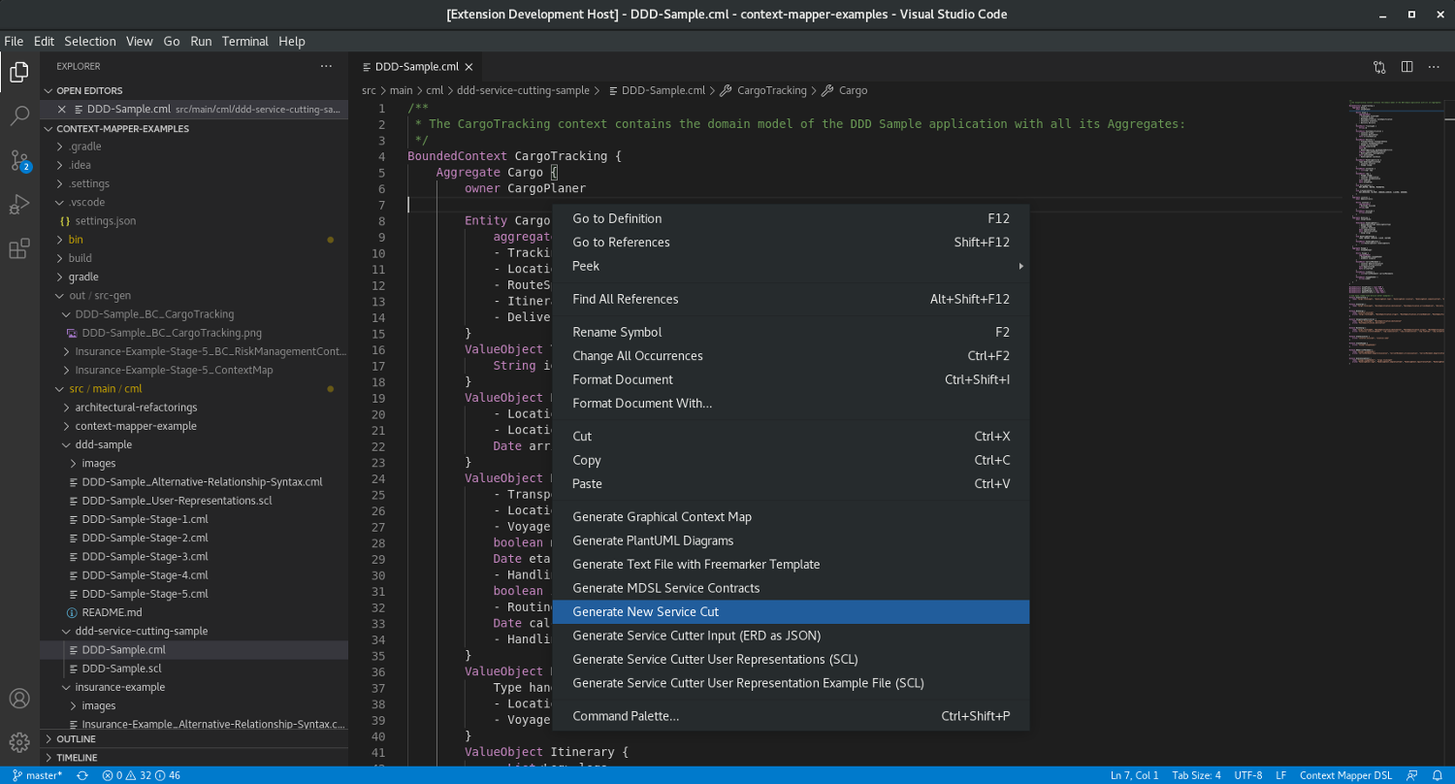
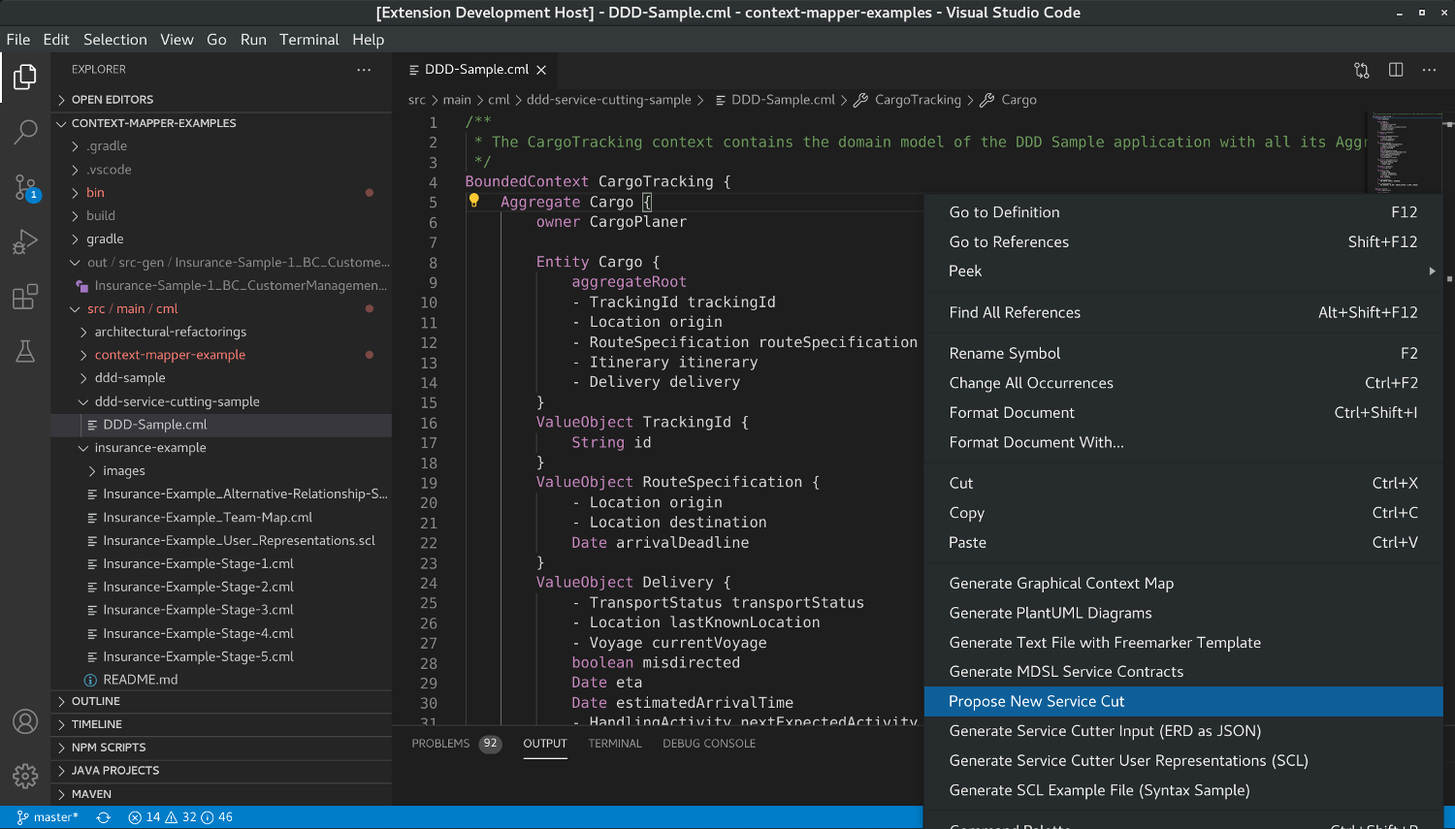
Updated Service Cutter tutorial

diff --git a/_cmls/systematic-service-decomposition-tutorial-2.html b/_cmls/systematic-service-decomposition-tutorial-2.html
@@ -1,19 +1,31 @@
 <div class="highlight"><pre><span></span><span class="k">UseCase</span> ViewTracking {
-  <span class="k">reads</span> <span class="s">&quot;Cargo.trackingId&quot;</span>, <span class="s">&quot;HandlingEvent.type&quot;</span>, <span class="s">&quot;HandlingEvent.location&quot;</span>, <span class="s">&quot;HandlingEvent.completionTime&quot;</span>, <span class="s">&quot;Delivery.transportStatus&quot;</span>, <span class="s">&quot;Delivery.estimatedArrivalTime&quot;</span>, <span class="s">&quot;Delivery.misdirected&quot;</span>, <span class="s">&quot;Voyage.voyageNumber&quot;</span>, <span class="s">&quot;RouteSpecification.destination&quot;</span>
+  <span class="k">interactions</span>
+    <span class="k">read</span> <span class="s">&quot;Cargo&quot;</span> <span class="k">with</span> <span class="k">its</span> <span class="s">&quot;trackindId&quot;</span>,
+    <span class="k">read</span> <span class="s">&quot;HandlingEvent&quot;</span> <span class="k">with</span> <span class="k">its</span> <span class="s">&quot;handlingEventType&quot;</span>, <span class="s">&quot;location&quot;</span>, <span class="s">&quot;completionTime&quot;</span>,
+    <span class="k">read</span> <span class="s">&quot;Delivery&quot;</span> <span class="k">with</span> <span class="k">its</span> <span class="s">&quot;transportStatus&quot;</span>, <span class="s">&quot;estimatedArrivalTime&quot;</span>, <span class="s">&quot;misdirected&quot;</span>, 
+    <span class="k">read</span> <span class="s">&quot;Voyage&quot;</span> <span class="k">with</span> <span class="k">its</span> <span class="s">&quot;voyageNumber&quot;</span>,
+    <span class="k">read</span> <span class="s">&quot;RouteSpecification&quot;</span> <span class="k">with</span> <span class="k">its</span> <span class="s">&quot;destination&quot;</span>
 }
 
 <span class="k">UseCase</span> ViewCargos {
-  <span class="k">reads</span> <span class="s">&quot;Cargo.trackingId&quot;</span>, <span class="s">&quot;RouteSpecification.destination&quot;</span>, <span class="s">&quot;RouteSpecification.arrivalDeadline&quot;</span>, <span class="s">&quot;Delivery.routingStatus&quot;</span>, <span class="s">&quot;Itinerary.itineraryNumber&quot;</span>
+  <span class="k">interactions</span>
+    <span class="k">read</span> <span class="s">&quot;Cargo&quot;</span> <span class="k">with</span> <span class="k">its</span> <span class="s">&quot;trackingId&quot;</span>,
+    <span class="k">read</span> <span class="s">&quot;RouteSpecification&quot;</span> <span class="k">with</span> <span class="k">its</span> <span class="s">&quot;destination&quot;</span>, <span class="s">&quot;arrivalDeadline&quot;</span>,
+    <span class="k">read</span> <span class="s">&quot;Delivery&quot;</span> <span class="k">with</span> <span class="k">its</span> <span class="s">&quot;routingStatus&quot;</span>
 }
 
 <span class="k">UseCase</span> BookCargo {
-  <span class="k">reads</span> <span class="s">&quot;Location.unLocode&quot;</span>
-  <span class="k">writes</span> <span class="s">&quot;Cargo.trackingId&quot;</span>, <span class="s">&quot;RouteSpecification.origin&quot;</span>, <span class="s">&quot;RouteSpecification.arrivalDeadline&quot;</span>, <span class="s">&quot;RouteSpecification.destination&quot;</span>
+  <span class="k">interactions</span>
+    <span class="k">read</span> <span class="s">&quot;Location&quot;</span> <span class="k">with</span> <span class="k">its</span> <span class="s">&quot;unLocode&quot;</span>,
+    <span class="k">update</span> <span class="s">&quot;Cargo&quot;</span> <span class="k">with</span> <span class="k">its</span> <span class="s">&quot;trackingId&quot;</span>,
+    <span class="k">update</span> <span class="s">&quot;RouteSpecification&quot;</span> <span class="k">with</span> <span class="k">its</span> <span class="s">&quot;origin&quot;</span>, <span class="s">&quot;arrivalDeadline&quot;</span>, <span class="s">&quot;destination&quot;</span>
 }
 
 <span class="k">UseCase</span> ChangeCargoDestination {
-  <span class="k">reads</span> <span class="s">&quot;Cargo.trackingId&quot;</span>, <span class="s">&quot;RouteSpecification.destination&quot;</span>
-  <span class="k">writes</span> <span class="s">&quot;RouteSpecification.destination&quot;</span>
+  <span class="k">interactions</span>
+    <span class="k">read</span> <span class="s">&quot;Cargo&quot;</span> <span class="k">with</span> <span class="k">its</span> <span class="s">&quot;trackingId&quot;</span>,
+    <span class="k">read</span> <span class="s">&quot;RouteSpecification&quot;</span> <span class="k">with</span> <span class="k">its</span> <span class="s">&quot;destination&quot;</span>,
+    <span class="k">update</span> <span class="s">&quot;RouteSpecification&quot;</span> <span class="k">with</span> <span class="k">its</span> <span class="s">&quot;destination&quot;</span>
 }
 
 <span class="c">/* we shortened this listing to save space (find all use cases in the original CML file) */</span>

diff --git a/_docs/tutorials/systematic-service-decomposition.md b/_docs/tutorials/systematic-service-decomposition.md
@@ -70,32 +70,44 @@ The CML code above just gives you an impression how the model looks like but is 
 <a target="_blank" href="/img/systematic-service-decomposition-tutorial-ddd-sample-plantuml.png">![DDD Sample Application Domain Model (PlantUML generated with Context Mapper)](/img/systematic-service-decomposition-tutorial-ddd-sample-plantuml.png)</a>
 
 ## Use Case Modeling
-With a Bounded Context definition as the one above you are already able to generate new service decompositions or Service Cutter files. However, we highly recommend the model your use cases as well, since they have a big impact on the ideal service decomposition.
+With a Bounded Context definition as the one above you are already able to generate new service decompositions or Service Cutter files. However, we highly recommend to model your use cases as well, since they have a big impact on the ideal service decomposition.
 
 On the [User Requirements](/docs/user-requirements/) page of our language reference you can find out how use cases or user stories are modeled in CML. For this tutorial based on the DDD sample application we modeled the use cases provided by the [Service Cutter sample files](https://github.com/ServiceCutter/ServiceCutter/tree/master/Samples):
 
 <div class="highlight"><pre><span></span><span class="k">UseCase</span> ViewTracking {
-  <span class="k">reads</span> <span class="s">&quot;Cargo.trackingId&quot;</span>, <span class="s">&quot;HandlingEvent.type&quot;</span>, <span class="s">&quot;HandlingEvent.location&quot;</span>, <span class="s">&quot;HandlingEvent.completionTime&quot;</span>, <span class="s">&quot;Delivery.transportStatus&quot;</span>, <span class="s">&quot;Delivery.estimatedArrivalTime&quot;</span>, <span class="s">&quot;Delivery.misdirected&quot;</span>, <span class="s">&quot;Voyage.voyageNumber&quot;</span>, <span class="s">&quot;RouteSpecification.destination&quot;</span>
+  <span class="k">interactions</span>
+    <span class="k">read</span> <span class="s">&quot;Cargo&quot;</span> <span class="k">with</span> <span class="k">its</span> <span class="s">&quot;trackindId&quot;</span>,
+    <span class="k">read</span> <span class="s">&quot;HandlingEvent&quot;</span> <span class="k">with</span> <span class="k">its</span> <span class="s">&quot;handlingEventType&quot;</span>, <span class="s">&quot;location&quot;</span>, <span class="s">&quot;completionTime&quot;</span>,
+    <span class="k">read</span> <span class="s">&quot;Delivery&quot;</span> <span class="k">with</span> <span class="k">its</span> <span class="s">&quot;transportStatus&quot;</span>, <span class="s">&quot;estimatedArrivalTime&quot;</span>, <span class="s">&quot;misdirected&quot;</span>, 
+    <span class="k">read</span> <span class="s">&quot;Voyage&quot;</span> <span class="k">with</span> <span class="k">its</span> <span class="s">&quot;voyageNumber&quot;</span>,
+    <span class="k">read</span> <span class="s">&quot;RouteSpecification&quot;</span> <span class="k">with</span> <span class="k">its</span> <span class="s">&quot;destination&quot;</span>
 }
 
 <span class="k">UseCase</span> ViewCargos {
-  <span class="k">reads</span> <span class="s">&quot;Cargo.trackingId&quot;</span>, <span class="s">&quot;RouteSpecification.destination&quot;</span>, <span class="s">&quot;RouteSpecification.arrivalDeadline&quot;</span>, <span class="s">&quot;Delivery.routingStatus&quot;</span>, <span class="s">&quot;Itinerary.itineraryNumber&quot;</span>
+  <span class="k">interactions</span>
+    <span class="k">read</span> <span class="s">&quot;Cargo&quot;</span> <span class="k">with</span> <span class="k">its</span> <span class="s">&quot;trackingId&quot;</span>,
+    <span class="k">read</span> <span class="s">&quot;RouteSpecification&quot;</span> <span class="k">with</span> <span class="k">its</span> <span class="s">&quot;destination&quot;</span>, <span class="s">&quot;arrivalDeadline&quot;</span>,
+    <span class="k">read</span> <span class="s">&quot;Delivery&quot;</span> <span class="k">with</span> <span class="k">its</span> <span class="s">&quot;routingStatus&quot;</span>
 }
 
 <span class="k">UseCase</span> BookCargo {
-  <span class="k">reads</span> <span class="s">&quot;Location.unLocode&quot;</span>
-  <span class="k">writes</span> <span class="s">&quot;Cargo.trackingId&quot;</span>, <span class="s">&quot;RouteSpecification.origin&quot;</span>, <span class="s">&quot;RouteSpecification.arrivalDeadline&quot;</span>, <span class="s">&quot;RouteSpecification.destination&quot;</span>
+  <span class="k">interactions</span>
+    <span class="k">read</span> <span class="s">&quot;Location&quot;</span> <span class="k">with</span> <span class="k">its</span> <span class="s">&quot;unLocode&quot;</span>,
+    <span class="k">update</span> <span class="s">&quot;Cargo&quot;</span> <span class="k">with</span> <span class="k">its</span> <span class="s">&quot;trackingId&quot;</span>,
+    <span class="k">update</span> <span class="s">&quot;RouteSpecification&quot;</span> <span class="k">with</span> <span class="k">its</span> <span class="s">&quot;origin&quot;</span>, <span class="s">&quot;arrivalDeadline&quot;</span>, <span class="s">&quot;destination&quot;</span>
 }
 
 <span class="k">UseCase</span> ChangeCargoDestination {
-  <span class="k">reads</span> <span class="s">&quot;Cargo.trackingId&quot;</span>, <span class="s">&quot;RouteSpecification.destination&quot;</span>
-  <span class="k">writes</span> <span class="s">&quot;RouteSpecification.destination&quot;</span>
+  <span class="k">interactions</span>
+    <span class="k">read</span> <span class="s">&quot;Cargo&quot;</span> <span class="k">with</span> <span class="k">its</span> <span class="s">&quot;trackingId&quot;</span>,
+    <span class="k">read</span> <span class="s">&quot;RouteSpecification&quot;</span> <span class="k">with</span> <span class="k">its</span> <span class="s">&quot;destination&quot;</span>,
+    <span class="k">update</span> <span class="s">&quot;RouteSpecification&quot;</span> <span class="k">with</span> <span class="k">its</span> <span class="s">&quot;destination&quot;</span>
 }
 
 <span class="c">/* we shortened this listing to save space (find all use cases in the original CML file) */</span>
 </pre></div>
 
-Note that we only modeled the _read_ and _written_ nanoentities here. You can model the user requirements in much more detail in CML, but these two attributes are necessary for the Service Cutter generators and tools.
+Note that we only modeled the Entities with its _read_ and _written_ attributes (nanoentities) here. The CML syntax allows you to add [more details to use cases and/or user stories](/docs/user-requirements/), but the information above are absolutely necessary for Context Mapper to use the cases/stories as user representations in Service Cutter.
 
 The CML use cases or user stories will be mapped to the Service Cutter's [_Use Case_ definition](https://github.com/ServiceCutter/ServiceCutter/wiki/Use-Cases).
 
@@ -136,8 +148,8 @@ This might not make sense for the DDD sample application, as the domain model is
 
 The CML team assignments will be mapped to the Service Cutter's [_Shared Owner Group_ definition](https://github.com/ServiceCutter/ServiceCutter/wiki/Shared-owner-groups).
 
-## Additional User Representations
-Besides _Use Cases_ and _Shared Owner Groups_ Service Cutter uses additional user representations that may influence the coupling between your model elements. This is the list of [all supported user representations](https://github.com/ServiceCutter/ServiceCutter/wiki/User-Representations):
+## Other User Representations
+In our example we just used _Use Cases_ and _Shared Owner Groups_. However, Service Cutter supports many other [user representations](https://github.com/ServiceCutter/ServiceCutter/wiki/User-Representations) that can help to improve the suggested service decompositions:
 
  * Entity Relationship Model (ERM)
  * Use Cases
@@ -149,20 +161,27 @@ Besides _Use Cases_ and _Shared Owner Groups_ Service Cutter uses additional use
  * Security Access Groups
  * Compatibilities
 
-Most of the user representations we can now derive from our CML model. The ERM is derived from the Entities and their references in CML. As already explained above, the Use Cases and Shared Owner Groups are modeled in CML as well. We further derive the Aggregates and Entities for Service Cutter from the corresponding counterparts in CML. In addition, we derive Predefined Services from already existing Bounded Contexts of your CML model. The remaining user representations have to be added manually, in case they are relevant for your application.
+**Note:** CML offers language features to cover all those user representations. That means: Context Mapper derives all Service Cutter user representations automatically for you, as long as you use the corresponding CML language feature. The following list summarizes how you can use all those language features (and links to the corresponding pages of the language reference):
+
+ * [Use Cases](https://github.com/ServiceCutter/ServiceCutter/wiki/Use-Cases): The use cases for Service Cutter are derived from the CML use cases and/or user stories (already shown above). You can find examples how to model them [here](/docs/user-requirements/). Also have a look at [Olaf Zimmermann's blogpost](https://ozimmer.ch/practices/2020/06/10/ICWEKeynoteAndDemo.html) for an enhanced example.
+   * **Note**: You have to specify your use cases with entities and their attributes, otherwise we cannot use them as user representations in Service Cutter.
+ * [Shared Owner Groups](https://github.com/ServiceCutter/ServiceCutter/wiki/Shared-owner-groups): Shared owner groups are derived automatically, if you [assign owners to your Aggregates (define which development teams own which parts of the system/code)](/docs/aggregate/#aggregate-owner) as done above.
+ * [Aggregates](https://github.com/ServiceCutter/ServiceCutter/wiki/Aggregates): [Aggregates](/docs/aggregate/) are first-class citizens in CML. Thus, the Aggregates for Service Cutter are simply derived by the CML Aggregates.
+ * [Entities](https://github.com/ServiceCutter/ServiceCutter/wiki/Entities): [Entities](/docs/tactic-ddd/) are first-class citizens in CML. Thus, the Entities for Service Cutter are simply derived by the CML Entities, Value Objects, and Domain Events (see [tactic DDD](/docs/tactic-ddd/)).
+ * [Predefined Services](https://github.com/ServiceCutter/ServiceCutter/wiki/Predefined-services): Predefined services are derived by the [Bounded Contexts](/docs/bounded-context/) you already provide before calling the service cut generator. This means: each Bounded Context you already identified is mapped to a predefined service.
+ * [Separated Security Zones](https://github.com/ServiceCutter/ServiceCutter/wiki/Separated-security-zones): The CML language allows you to [assign each Aggregate to a _security zone_](/docs/aggregate/#security-zones). Thereby you can indicate that parts of your Bounded Contexts must be realized in _separated security zones_.
+ * [Security Access Groups](https://github.com/ServiceCutter/ServiceCutter/wiki/Security-access-groups): The CML language allows you to [assign each Aggregate to a _security access group_](/docs/aggregate/#security-access-groups). Thereby you can indicate that parts of your Bounded Contexts have different security access requirements.
+ * [Compatibilities](https://github.com/ServiceCutter/ServiceCutter/wiki/Compatibilities): All compatibilities (`contentVolatility`, `structuralVolatility`, `availabilityCriticality`, `consistencyCriticality`, `storageSimilarity`, and `securityCriticality`) can be [modeled on Aggregate level in CML](/docs/aggregate/#characteristics-classification).
 
 ## The Service Cutter Configuration DSL (SCL)
-The Service Cutter tool takes the user representations as a JSON file. In order to ease the description of these representations we created another DSL. Once you created a CML model, you can easily derive an initial SCL file from it. You find two SCL generators in Context Mapper:
 
-<a target="_blank" href="/img/systematic-service-decomposition-tutorial-scl-menu-screenshot.png">![SCL Generators in Context Mapper](/img/systematic-service-decomposition-tutorial-scl-menu-screenshot.png)</a>
+<div class="alert alert-custom">
+<strong>Note:</strong> As soon as you generate service cut suggestions you will realize that Context Mapper creates a *.scl file besides your *.cml file. Since Context Mapper v6.x.x you can basically ignore this file. It contains the user representations and updates itself each time you create a new service decomposition suggestion.
+</div>
 
-The first generator ("Generate Service Cutter User Representations (SCL)") generates an SCL file that contains the user representations which can be derived from your CML model. You can enhance this file with additional user representations. However, the representations that can be derived from CML code will always be overwritten as soon as you call the generator again or if you generate new Service Cut's in Context Mapper. 
+We originally developed the _Service Cutter Configuration DSL (SCL)_ to ease the modeling of Service Cutter's user representations, since Service Cutter requires the data in JSON and this is cumbersome to write manually. To generate service decomposition suggestions in Context Mapper it is no longer required to modify it manually. It creates and updates itself automatically.
 
-**Note:** If you update your CML model (for example you create a new Aggregate with new Entities), you can always call the SCL generator again and it will update your *.scl file.
-
-The second generator ("Generate Service Cutter User Representation Example File (SCL)") only generates an exemplary file that illustrates the SCL syntax. The generated user representations do not make sense and should not be used to generate Service Cut's! In this file you find syntactic examples for all potential user representations you can model:
-
-<a target="_blank" href="/img/systematic-service-decomposition-tutorial-scl-example-file.png">![SCL Example File](/img/systematic-service-decomposition-tutorial-scl-example-file.png)</a>
+You only have to open and/or edit the file in one case: if you want to export the JSON files and analyze your system in the original Service Cutter tool. In case you generate service cut's in Context Mapper, it does not make sense to modify the file manually, as it is always overwritten with the data we derive from the CML model.
 
 Now, having a CML and a SCL model, you have two options how you can proceed:
 
@@ -170,18 +189,36 @@ Now, having a CML and a SCL model, you have two options how you can proceed:
  * Analyze your model in [Service Cutter](https://github.com/ServiceCutter/ServiceCutter/)
 
 ## Generate Service Cut's
-You can create new CML files with new service decompositions by calling "Generate New Service Cut":
+You can create new CML files with new service decompositions by calling "Propose New Service Cut":
 
-<a target="_blank" href="/img/systematic-service-decomposition-tutorial-generate-new-service-cut.png">![Generate New Service Cut (Context Menu in VS Code)](/img/systematic-service-decomposition-tutorial-generate-new-service-cut.png)</a>
+<a target="_blank" href="/img/systematic-service-decomposition-tutorial-generate-new-service-cut.png">![Propose New Service Cut (Context Menu in VS Code)](/img/systematic-service-decomposition-tutorial-generate-new-service-cut.png)</a>
 
 Note that depending on the [graph clustering algorithm](#algorithms) (we explain how you can change the algorithm below) you may get a different result each time you call the generator.
-In this case, you can generete multiple suggestions by calling the generator multiple times; it always create a new *.cml file containing a new service decomposition for your model:
+In this case, you can generate multiple suggestions by calling the generator multiple times; it always create a new *.cml file containing a new service decomposition for your model:
 
 <a target="_blank" href="/img/systematic-service-decomposition-tutorial-multiple-generation-screenshot.png">![Generate Multiple Service Cuts](/img/systematic-service-decomposition-tutorial-multiple-generation-screenshot.png)</a>
 
-**Note:** The generator always uses the *.scl file with the same name your *.cml file has. For example: if you call the generator for a file called _mymodel.cml_, your SCL file must be called _mymodel.scl_ and it must be stored in the same directory. The SCL file generator already creates the file under the correct file name.
+As you can see above, the generator additionally creates a *.gv file each time:
 
-**Note:** If you have not already created an SCL file as described above, the service cut generator will automatically create one for you.
+<a target="_blank" href="/img/systematic-service-decomposition-tutorial-example-graphviz-file.png">![Example Graphviz DOT File (*.gv)](/img/systematic-service-decomposition-tutorial-example-graphviz-file.png)</a>
+
+You don't necessarily need this file, but it can be useful for traceability and while trying to understand how Service Cutter works. It contains the graph Service Cutter uses for the clustering as [Graphviz DOT file](https://en.wikipedia.org/wiki/DOT_%28graph_description_language%29). Thereby you can for example change the scoring in the `.servicecutter.yml` file and analyze which impact this has on the actual graph behind the scenes. Besides the graph with the weighted egdes, each line/edge contains a comment that explains the calculated weight on the basis of the used coupling criteria.
+
+If your model is not too big you can use online tools such as [http://webgraphviz.com/](http://webgraphviz.com/) or [http://graphviz.it/](http://graphviz.it/) to illustrate the graph graphically:
+
+<a target="_blank" href="/img/service-cutter-gv-file-online-screenshot.png">![Example Graphviz DOT File (*.gv)](/img/service-cutter-gv-file-online-screenshot.png)</a>
+
+However, the graph generated with our example above is already too big for those tools (they do not respond when pasting the DOT graph into their editors). In such a case you can generate a graphic locally on the command line (in case you have [Graphviz](https://graphviz.org/) installed):
+
+```bash
+dot -Tpng DDD-Sample_Markov_Clustering_Cut_4.gv -o DDD-Sample_Markov_Clustering_Cut_4.png
+```
+
+This can also take a while but you have the generated file after a some seconds.
+
+Nevertheless, as you can see in the following image, this feature is really only usefull for small examples. The graph produced by our DDD sample model is simply too big:
+
+<a target="_blank" href="/img/systematic-service-decomposition-tutorial-generated-png-graph.png">![Huge Graphviz graph for DDD Sample)](/img/systematic-service-decomposition-tutorial-generated-png-graph.png)</a>
 
 ### Criteria Scoring
 Service Cutter allows you to score the individual coupling criteria. Thereby you can define which criteria are more important than others in your specific case. In case you use Service Cutter, you can control the scores on the user interface (see screenshot below). In case you use the service cut generator in Context Mapper, you have to change the scores in the `.servicecutter.yml` file. The file is automatically generated into the root folder of your project when you call the service cut generator for the first time:
@@ -194,6 +231,12 @@ You can change the scoring in the _priorities_ part of the YAML file (see screen
 
 <a target="_blank" href="/img/systematic-service-decomposition-tutorial-eclipse-dot-file-filter.png">![Eclipse: Disable .* File Filter](/img/systematic-service-decomposition-tutorial-eclipse-dot-file-filter.png)</a>
 
+**Note:** As you can see in the following screenshot, we always dump the current configuration as a comment into the generate service suggestions:
+
+<a target="_blank" href="/img/systematic-service-decomposition-tutorial-configuration-dump.png">![Configuration dumped into generated CML models](/img/systematic-service-decomposition-tutorial-configuration-dump.png)</a>
+
+This can be very helpful regarding traceability and understandability when analyzing the generated service cut's.
+
 ### Algorithms
 You can further change the clustering algorithm in the `.servicecutter.yml` file. We currently support the following three algorithms:
 
@@ -204,6 +247,35 @@ You can further change the clustering algorithm in the `.servicecutter.yml` file
 <div class="alert alert-custom">
 <strong>Note</strong> that that LEUNG and CHINESE_WHISPERS can produce different results for each execution due to their randomized and non-deterministic behavior. That means that you get CML models each time you generate a new service cut suggestion.
 </div>
+
+More information on the `.servicecutter.yml` configuration file can be found [here](/docs/service-cutter-config-file/).
+
+## Extract a Suggested Service in the Original Model
+The generated *.cml files with the service cut suggestions typically do not contain all the information you modeled into your original CML model. These files are not meant to continue to work with. We just use them as a suggestion on how a system could be decomposed and then (maybe) refactor the original model accordingly. 
+
+In case a suggested cut contains a service which you find a suitable Bounded Context, you can extract such a service in the original model with a refactoring we provide.
+
+With our example above we generated a cut that contained the following service (_Service\_C_):
+
+<a target="_blank" href="/img/systematic-service-decomposition-tutorial-extract-service-1.png">![An example service that could be extracted (Screenshot)](/img/systematic-service-decomposition-tutorial-extract-service-1.png)</a>
+
+The service contains everything related to the _Location_ entity. Providing all the locations and their management as a separate service (Bounded Context) could be a reasonable design decision. 
+
+Given such a service in a generated cutting suggestions, you can now apply the _Extract Suggested Service in Original Model_ refactoring:
+
+<a target="_blank" href="/img/systematic-service-decomposition-tutorial-extract-service-2.png">![Extract Suggested Service in Original Model](/img/systematic-service-decomposition-tutorial-extract-service-2.png)</a>
+
+As you may remember, our original model (at the beginning of this tutorial) only contained one single Bounded Context. This refactoring supports you in extracting the suggested service above from this exising (monolithic) context.
+
+**Note:** For this refactoring to work properly, you are not allowed to rename the CML files. The refactoring has to locate the original model, which can only be done if they are still named according our given pattern.
+
+The refactoring will ask you to provide a name for the selected Bounded Context first. We chose the name _LocationContext_ for the suggested service. Context Mapper will open the original model with the applied change: (in VS Code in a split view and the changes can be saved or reverted; in Eclipse in a normal editor and the changes are already persisted)
+
+<a target="_blank" href="/img/systematic-service-decomposition-tutorial-extracted-service-in-original-model.png">![The Extracted Service in the Original Model](/img/systematic-service-decomposition-tutorial-extracted-service-in-original-model.png)</a>
+
+As you can see in the original model in the right view above, a new _LocationContext_ got extracted. However, the refactoring implementation is quite straight forward and typically requires you to do some manual cleanup work. For example: it currently does not delete the original entities (in this case _Location_ and _UnLocode_) since they could still contain some nanoentities (potentially). Therefore we generate unique names (in this case _Location\_2_ and _UnLocode\_2_), which might not be the desired names. If the original entities are no longer needed, you can delete those and rename the entities of your new Bounded Context with the rename refactoring in VS Code or Eclipse.
+
+Thats it. This is how the current tooling in Context Mapper supports you in proposing service cut's and extract potential services in your original CML model. In the following we have a look at how you can use your CML model to generate the input files required by the Service Cutter tool.
 
 ## Analyze Model in Service Cutter
 Instead of generating new service cuts in Context Mapper, it is also possible to analyze the decompositions in Service Cutter. While Context Mapper generates new CML models, Service Cutter illustrates the graph clusterings graphically.
@@ -216,6 +288,8 @@ The ERM is generated out of the CML file...
 ... and the user representations out of the SCL file:
 
 <a target="_blank" href="/img/systematic-service-decomposition-tutorial-generate-ur-json.png">![Generate User Representations JSON File](/img/systematic-service-decomposition-tutorial-generate-ur-json.png)</a>
+
+**Note**: In case you haven't generated service cut's before, you don't have a SCL file already. No worries: you can simply generate it from your CML file by calling _Generate Service Cutter User Representations (SCL)_ in the context menu of the CML editor. Don't confuse this with the _Generate SCL Example File (Syntax Sample)_ entry, which only generates an exemplary SCL file (this can be used in case you want write your SCL file manually).
 
 Now you can start Service Cutter and import the model to analyze it. You can start Service Cutter easily by cloning the repository and using Docker:
 
@@ -239,6 +313,6 @@ In this tutorial we have shown how you can use Service Cutter to generate decomp
 
 For our DDD sample application we used the generated outputs to discover some parts of the domain model which seem to be loosely coupled from the rest. Concretely, we extracted a Bounded Context for the _Location_ Aggregate and one for the _Voyage_ Aggregate. You can find this CML model [here](https://github.com/ContextMapper/context-mapper-examples/blob/master/src/main/cml/ddd-sample/DDD-Sample-Stage-5.cml).
 
-To extract new Bounded Contexts according to the ideas you have developed by using Service Cutter you may use our [Architectural Refactorings](/docs/architectural-refactorings/). For example, you can extract Aggregates by using [AR-5: Extract Aggregates by Cohesion](/docs/ar-extract-aggregates-by-cohesion/).
+To extract new Bounded Contexts according to the ideas you have developed by using Service Cutter you may also use our [Architectural Refactorings](/docs/architectural-refactorings/). For example, you can extract Aggregates by using [AR-5: Extract Aggregates by Cohesion](/docs/ar-extract-aggregates-by-cohesion/).
 
 In order to present and discuss decomposition suggestions with your colleagues, you can use our [generators](/docs/generators/) to create graphical representations ([graphical Context Map](/docs/context-map-generator/) or [PlantUML diagrams](/docs/plant-uml/)) of the service decompositions.
